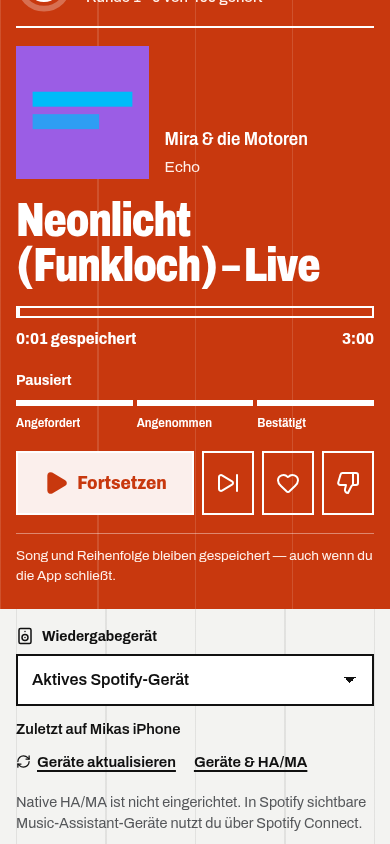
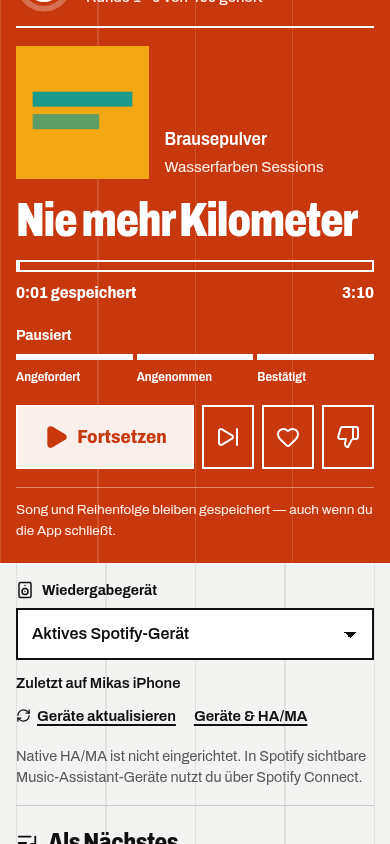
Keep held transport labels legible and title dashes off line starts
Claude-Session: https://claude.ai/code/session_01QBgbPCtGYi5ogN8oLRbo26

Changed region(s): [[0.0, 0.0308, 1.0, 1.0], [0.9538, 0.4929, 0.9846, 0.5237]]

diff --git a/src/client/screens/home.tsx b/src/client/screens/home.tsx
@@ -333,7 +333,7 @@ export function Home({ state }: { state: AppState }) {
 					<div class="now-shelf">
 						<Cover src={track?.imageUrl ?? posterStation?.imageUrl} class="player-art" eager />
 						<div class="now-copy">
-							<h2>{track?.name ?? "Dein nächster Lieblingssong"}</h2>
+							<h2>{posterTitle(track?.name ?? "Dein nächster Lieblingssong")}</h2>
 							<p class="artist">
 								{track?.artists ?? "Wähle einen Sender und starte deine Warteschlange."}
 							</p>
@@ -794,6 +794,11 @@ export function Home({ state }: { state: AppState }) {
 			</aside>
 		</div>
 	);
+}
+
+/** Keep a title's dash with the word before it, so no poster line opens with "–". */
+function posterTitle(name: string): string {
+	return name.replace(/ ([–—-]) /g, "\u00a0$1 ");
 }
 
 function QueueRow({ track, index }: { track: TrackView; index: number }) {

diff --git a/src/client/styles.css b/src/client/styles.css
@@ -828,6 +828,8 @@ main h1[tabindex="-1"]:focus {
 
 /* Not available now (held, offline, not ready): the key prints as outline overprint. */
 .poster .transport-main:disabled {
+	opacity: 1;
+	text-wrap: balance;
 	background: transparent;
 	color: var(--on);
 	border-style: dashed;
